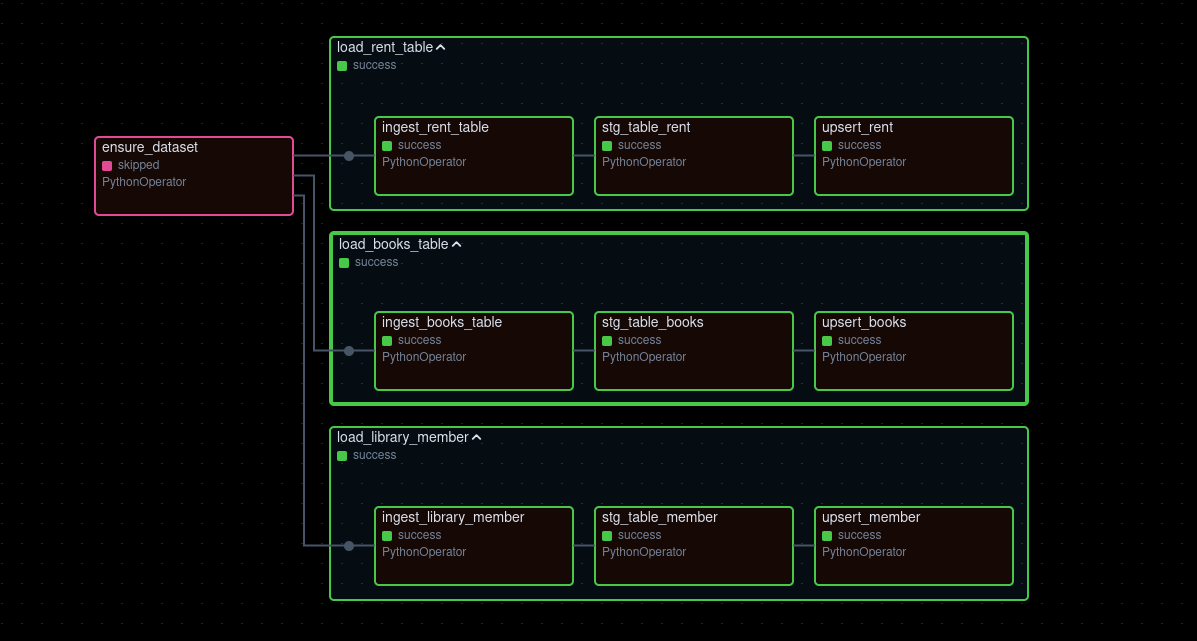
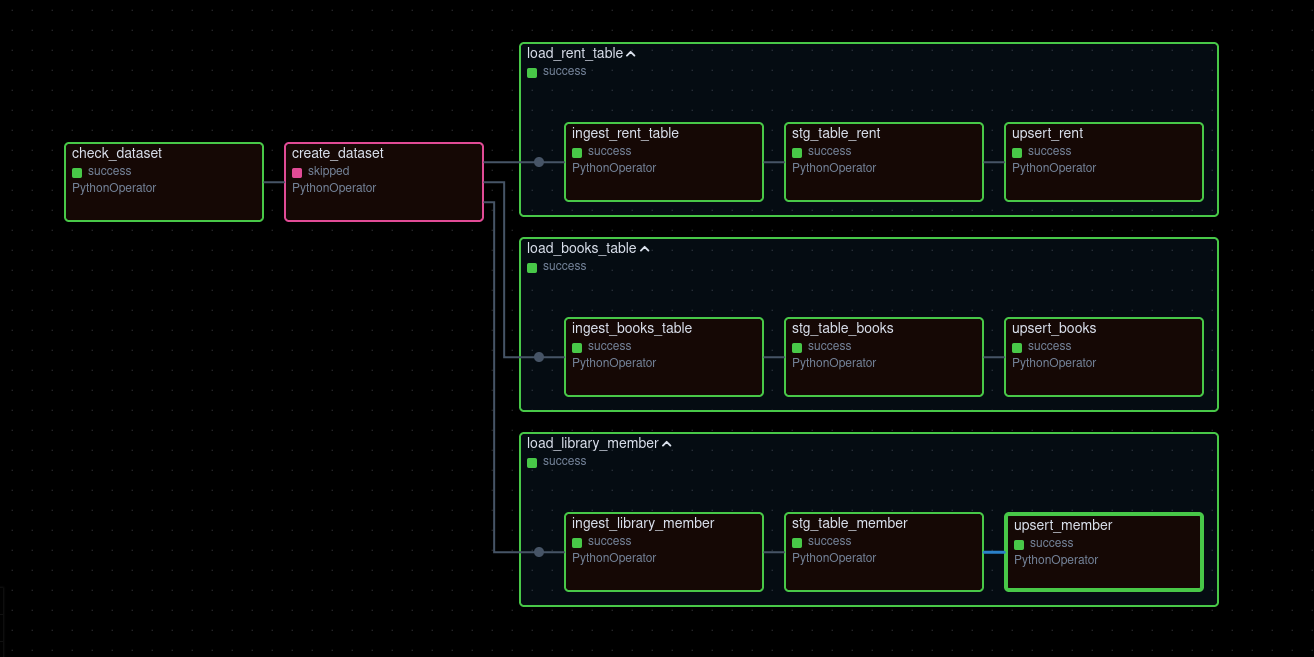
changing ensure_task into two check_dataset and create_dataset

Changed region(s): [[0.0309, 0.156, 0.9273, 0.936], [0.2782, 0.0312, 0.9273, 0.1248]]

diff --git a/prod_airflow_service/airflow/dags/postgres_to_bigquery.py b/prod_airflow_service/airflow/dags/postgres_to_bigquery.py
@@ -15,14 +15,27 @@ def load_config():
     with open("/opt/airflow/dags/configs/app_db.yaml", "r") as file:
         return yaml.safe_load(file)
 
-def ensure_dataset_exist(project_id, dataset_id):
+def check_dataset_exist(project_id, dataset_id):
     result = check_dataset(project_id, dataset_id)
 
     if result:
-        raise AirflowSkipException(f"{dataset_id} already exist")
+        print(f"{dataset_id} already exist")
+        status = True
+    else:
+        status = False
+
+    return {'status': status} #return must be in json format
+
+def creating_dataset(project_id, dataset_id, **kwargs):
+    ti = kwargs['ti']
+    status = ti.xcom_pull(task_ids='check_dataset')['status']
+
+    if status:
+        raise AirflowSkipException(f"skipping as {dataset_id} already exist")
     else:
         print(f"dataset does not exist, proceed in creating dataset")
         create_dataset(project_id, dataset_id)  
+
 
 def ingest_data(source_table, temp_storage):
     conn = create_connection("application_postgres", "5432", "application_db", "library_admin", "letsreadbook")
@@ -74,9 +87,18 @@ def create_dag():
         schedule_interval='@once',
         catchup=False) as dag:
 
-        ensure_dataset_task = PythonOperator(
-            task_id=f"ensure_dataset",
-            python_callable=ensure_dataset_exist,
+        check_dataset_task = PythonOperator(
+            task_id=f"check_dataset",
+            python_callable=check_dataset_exist,
+            op_kwargs={
+                "project_id": project_id,
+                "dataset_id": dataset_id,
+            },
+        )
+
+        create_dataset_task = PythonOperator(
+            task_id=f"create_dataset",
+            python_callable=creating_dataset,
             op_kwargs={
                 "project_id": project_id,
                 "dataset_id": dataset_id,
@@ -130,7 +152,8 @@ def create_dag():
 
             grouped_task.append(table_group)
 
-        ensure_dataset_task >> [task for task in grouped_task]
+        check_dataset_task >> create_dataset_task
+        create_dataset_task >> [task for task in grouped_task]
     
     return dag
 

diff --git a/README.md b/README.md
@@ -56,7 +56,7 @@ Dalam DAG ini, kita diminta untuk melakukan ingestion dari data yang telah kita 
 
 <img src='assets/postgres_to_bigquery_dag.png' alt='postgres_to_bigquery_dag' width='80%'>
 
-Proses dari DAG ini didahulukan dengan menggunakan task *ensure_dataset* yang akan mengecek apakah dataset sudah tersedia pada BigQuery target. Bila tidak ada, maka task akan menjalankan pembuatan dataset. Bila ada, maka task akan di skip.
+Proses dari DAG ini didahulukan dengan menggunakan task `check_dataset` yang akan mememeriksa apakah dataset sudah tersedia pada BigQuery target. Tergantung hasil return dari *check_dataset*, jika `True` maka `create_dataset` task akan menjalankan pembuatan dataset. Bila hasil return `False` , maka task `create_dataset` akan di skip sebagaimana graph diatas.
 
 Karena task sebelumnya di skip, kita harus memastikan `trigger_rule` untuk task selanjutnya. Karena secara *default* `trigger_rule` yang digunakan adalah `all_success`, yang memastikan bahwa task sebelumnya harus berhasil berjalan, kita akan mengubah value `trigger_rule` dalam task selanjutanya menjadi `none_failed`.
 
